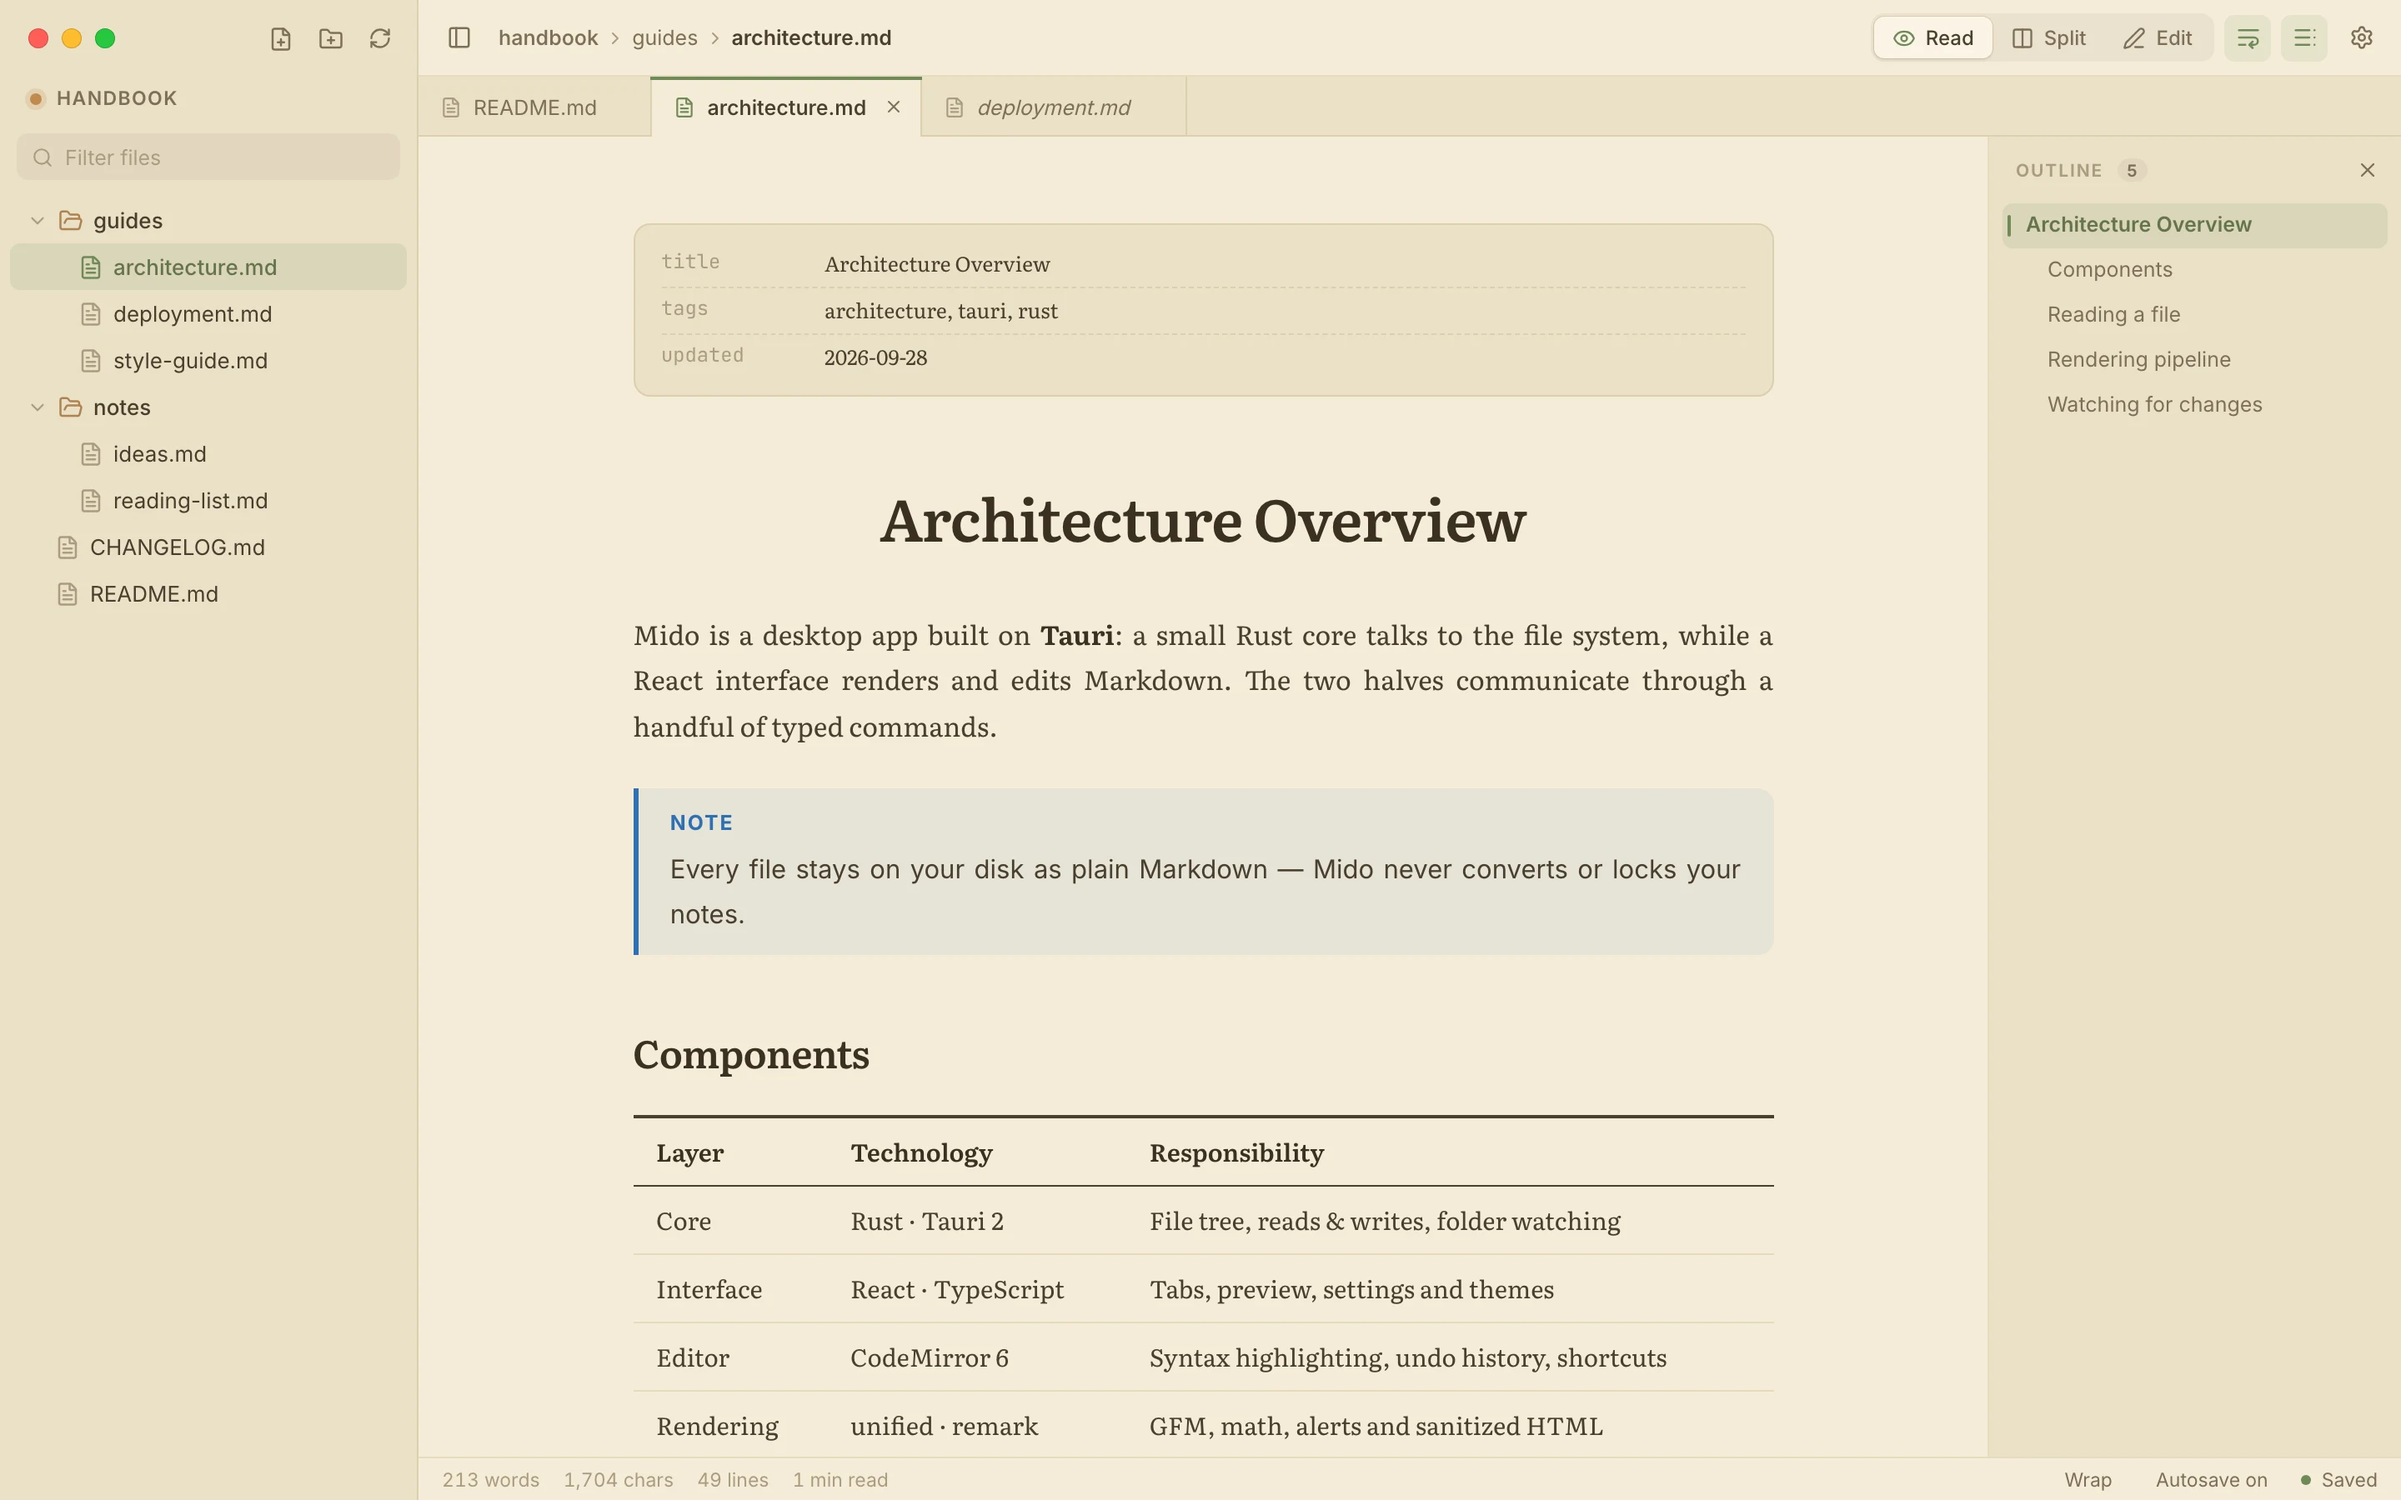
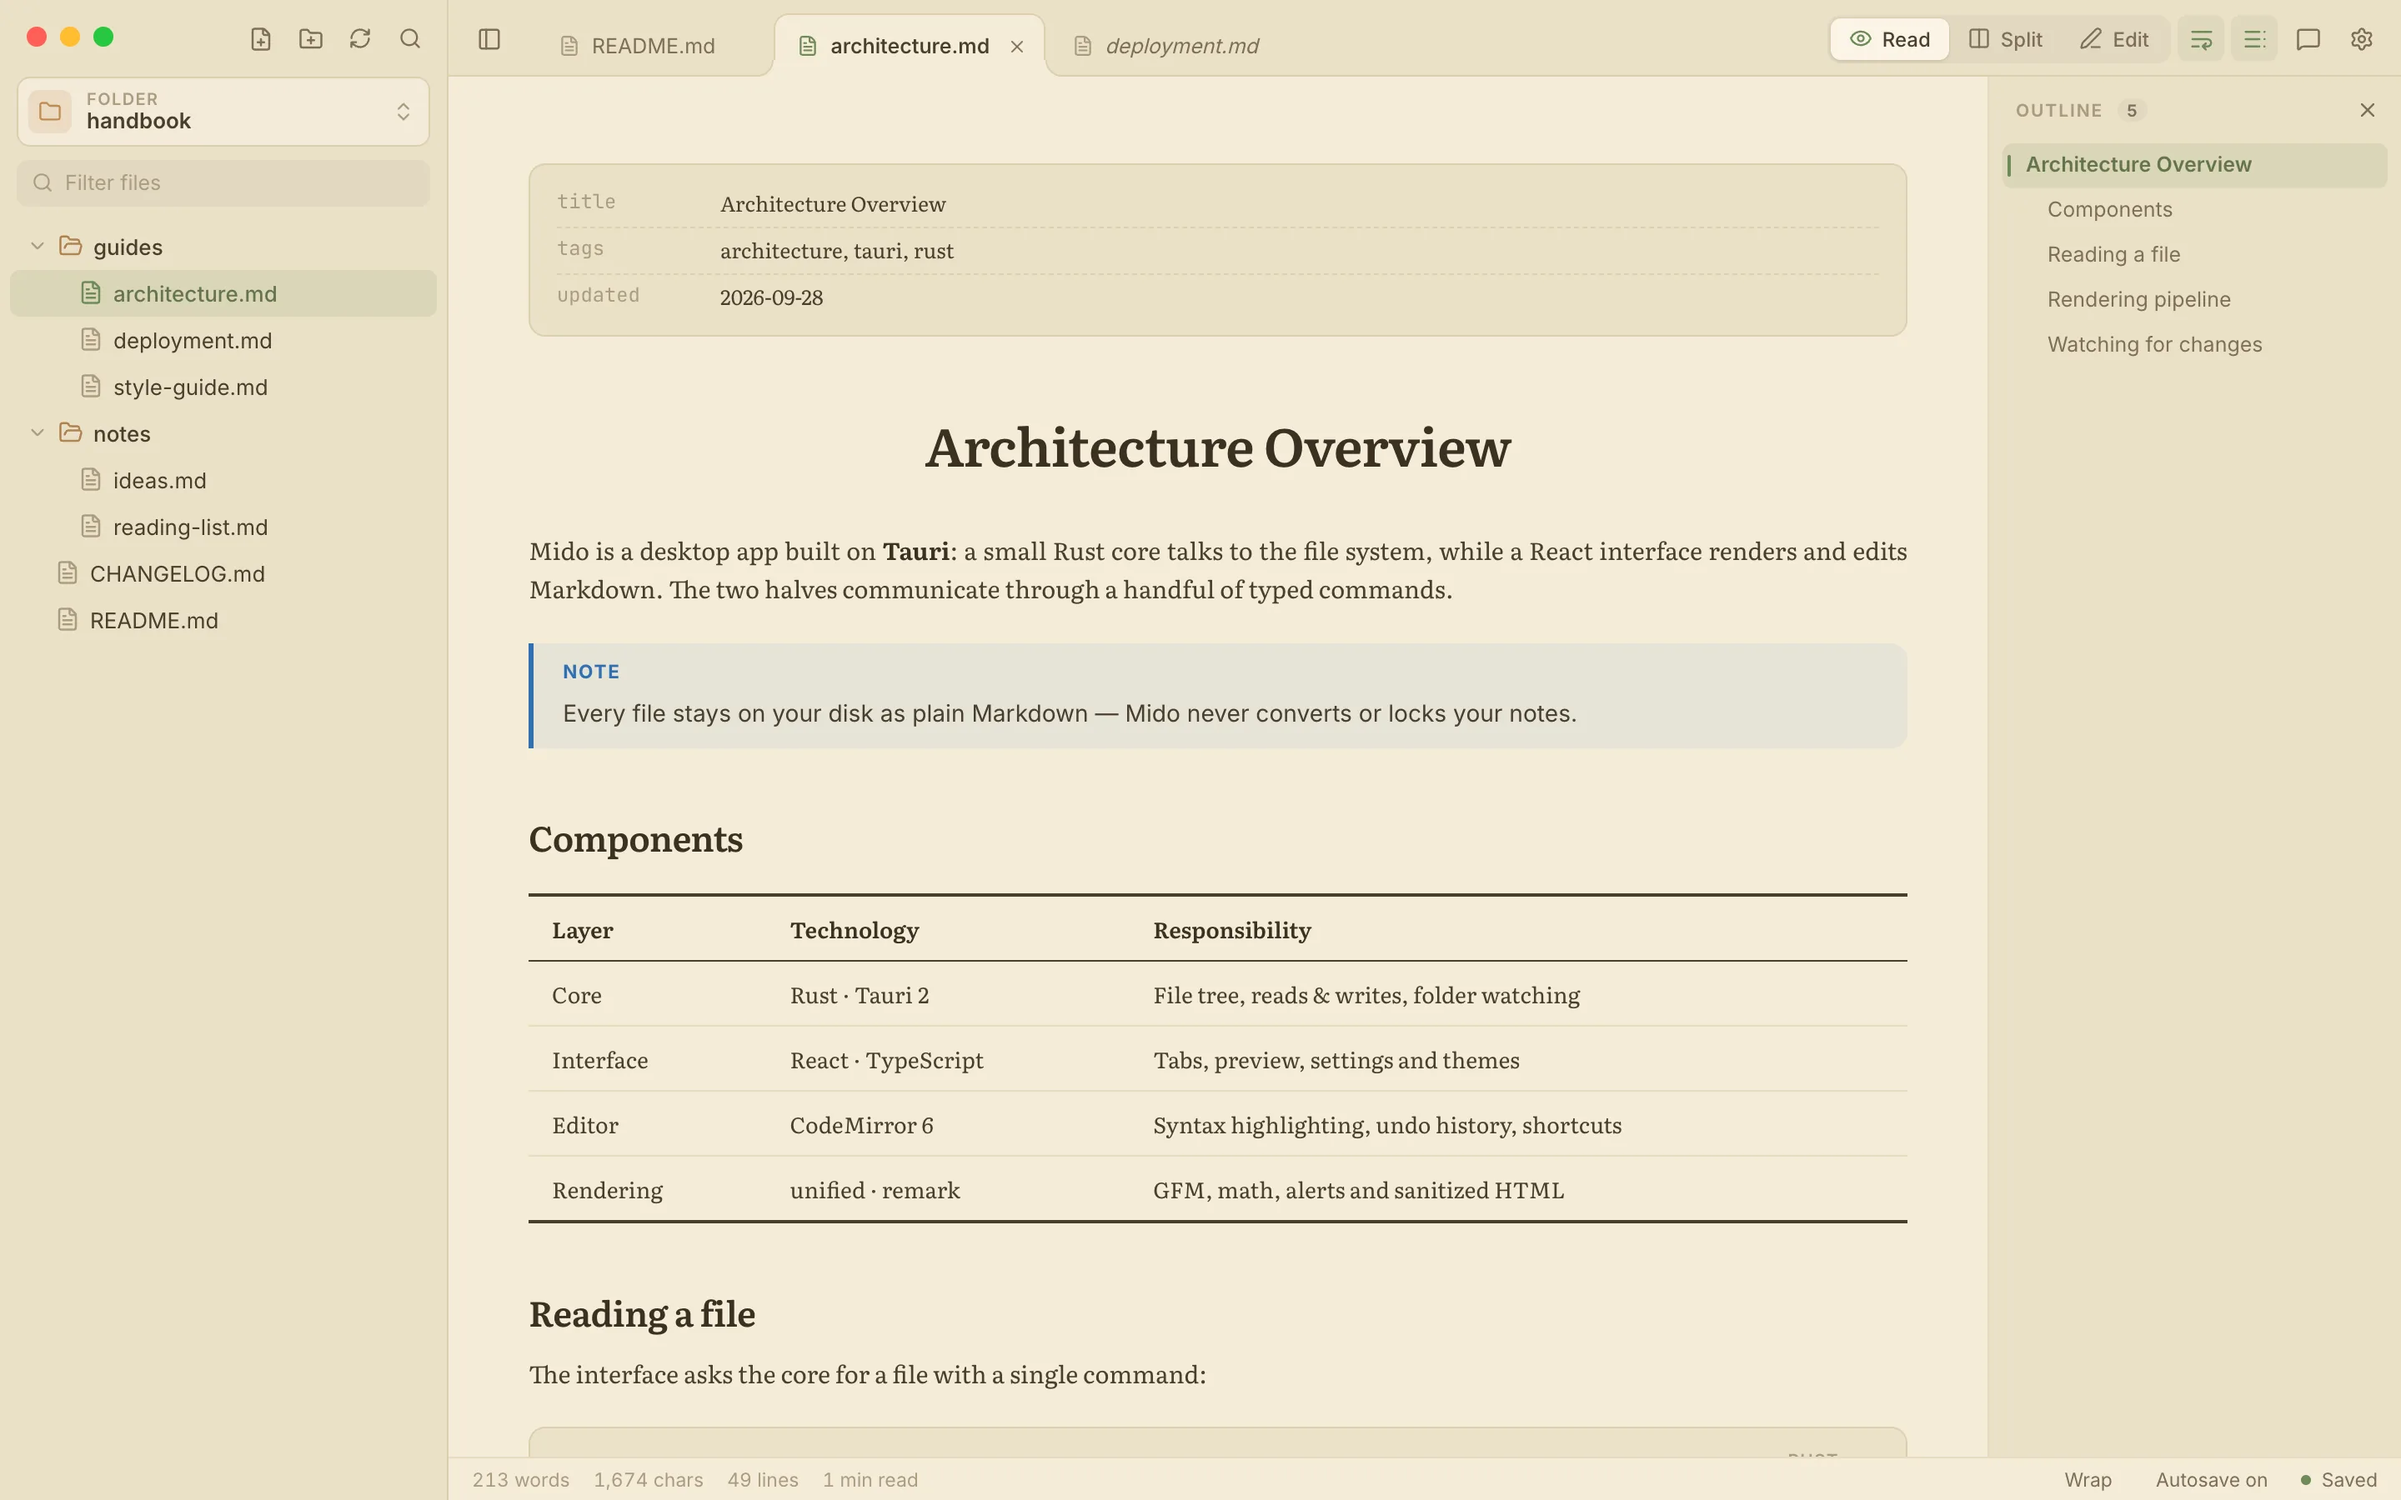
Update the website's screenshots for the new look
The folder switcher, rounded tabs and the new defaults (GitHub style, Mido
Dark, amber accent). The theme gallery opens on Mido Dark and gains Mido
Light; the link preview image is cropped from the new hero.

diff --git a/site/index.html b/site/index.html
@@ -240,7 +240,8 @@
           colours, and share it as JSON.
         </p>
         <div class="theme-tabs" role="tablist" aria-label="Themes">
-          <button role="tab" aria-selected="true" data-shot="hero">Mido Light</button>
+          <button role="tab" aria-selected="true" data-shot="hero">Mido Dark</button>
+          <button role="tab" aria-selected="false" data-shot="theme-mido-light">Mido Light</button>
           <button role="tab" aria-selected="false" data-shot="theme-vscode-dark">VS Code Dark+</button>
           <button role="tab" aria-selected="false" data-shot="theme-darcula">IntelliJ Darcula</button>
           <button role="tab" aria-selected="false" data-shot="theme-relax">Relax</button>
@@ -255,7 +256,7 @@
             width="1440"
             height="900"
             loading="lazy"
-            alt="Mido with the Mido Light theme"
+            alt="Mido with the Mido Dark theme"
           />
         </figure>
       </section>
